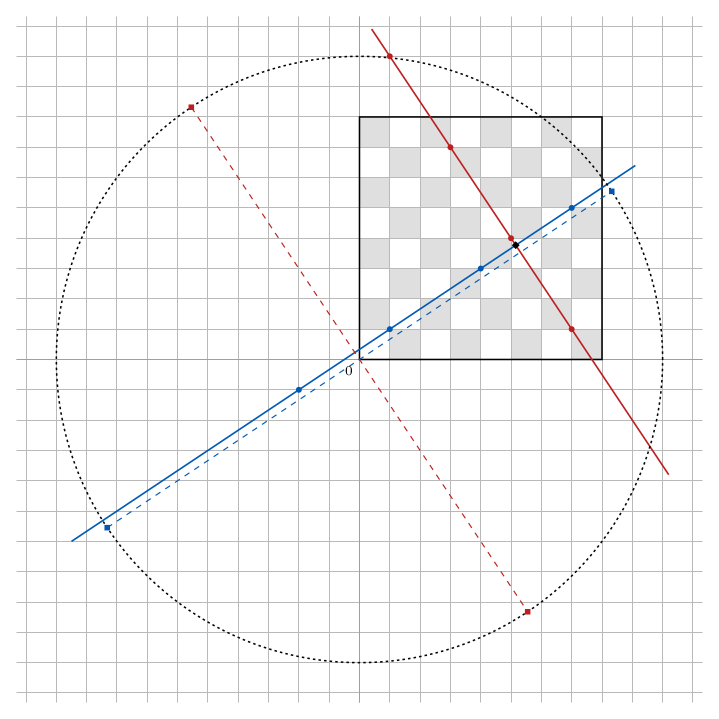
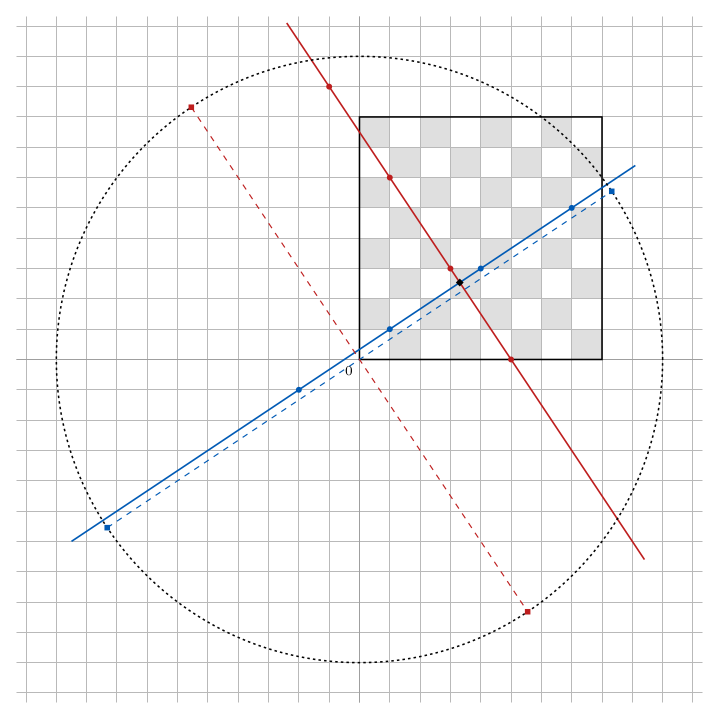
figure: move line B so the crossing clears the lattice (v5)
The crossing sat 0.277 lattice units from (5,4) -- itself a marked lattice
point on line B -- so the black diamond and that red dot overlapped at any
reasonable rendering size. The figure read as though the two lines cross AT a
lattice point, which is precisely what the covering condition forbids.

Line B moved from (3,7) to (3,3), same direction (2,-3). Crossing is now at
(43/13, 33/13), 0.555 from the nearest lattice point -- double the old gap.

0.601 is the hard ceiling for any point on a line of direction (3,2)/(2,-3),
since a lattice line keeps returning close to the lattice, so this is ~92% of
what these directions permit; exceeding it would need a different direction
(e.g. (3,1) or (1,1), ceiling 0.707) and a larger change to the picture.

Marked points on line B are now (-1,9),(1,6),(3,3),(5,0); checked that none
lies on the radius-10 circle, the coincidence v4 was written to avoid.

README alt text updated to the new coordinates. Figure is not referenced by
lattice_line_covers_preprint.tex, so this does not diverge from the published
LiTH-MAT-R 2026:02 or the frozen Zenodo snapshot.

diff --git a/article/figures/chessboard-figure.tex b/article/figures/chessboard-figure.tex
@@ -1,4 +1,15 @@
 % Changelog (reverse chronological):
+% 2026-08-18 13:04 - Claude: v5. The crossing sat only 0.277 lattice units from (5,4) --
+%   which is itself a *marked* lattice point on line B -- so the black diamond
+%   and that red dot overlapped at any sane rendering size, and the figure read
+%   as though the two lines cross AT a lattice point: exactly what the covering
+%   condition forbids. Moved line B from (3,7) to (3,3) (same direction (2,-3)),
+%   putting the crossing at (43/13,33/13), 0.555 from the nearest lattice point.
+%   Note 0.601 is the hard ceiling for ANY point on a line of direction (3,2) or
+%   (2,-3) -- a lattice line keeps returning close to the lattice -- so this is
+%   ~92% of what these directions allow; beating it needs a different direction,
+%   e.g. (3,1) or (1,1), whose ceiling is 0.707. Marked points on B are now
+%   (-1,9),(1,6),(3,3),(5,0); none lies on the radius-10 circle (the v4 trap).
 % 2026-08-03 08:15 - Claude: v4. Line B's marked lattice point (0,10) turned out
 %   to sit exactly on the radius-10 circle (one of the twelve lattice points on
 %   x^2+y^2=100: the four axis points and the eight from 6^2+8^2=10^2) -- a
@@ -53,7 +64,7 @@
   % (offset (2,7)->(3,7) vs. earlier versions: (2,7) put the lattice point (0,10)
   % exactly on the radius-10 circle, an avoidable coincidence -- see changelog.)
   \draw[lineBcolor, line width=0.85pt]
-    ({3-2*1.3},{7+3*1.3}) -- ({3+2*3.6},{7-3*3.6});
+    ({3-2*2.7},{3+3*2.7}) -- ({3+2*3.2},{3-3*3.2});
 
   % --- Auxiliary: the SAME two directions, as lines through the origin ---
   % (dashed, same colors) -- these, not the offset lines above, are what
@@ -79,10 +90,10 @@
 
   % --- Lattice points each (offset) line passes through: filled circles ---
   \foreach \p in {(-2,-1),(1,1),(4,3),(7,5)} \fill[lineAcolor] \p circle (2.8pt);
-  \foreach \p in {(1,10),(3,7),(5,4),(7,1)} \fill[lineBcolor] \p circle (2.8pt);
+  \foreach \p in {(-1,9),(1,6),(3,3),(5,0)} \fill[lineBcolor] \p circle (2.8pt);
 
   % --- The (non-lattice) crossing point of the two ACTUAL lines: black diamond ---
-  \fill[black, rotate around={45:(67/13,49/13)}] (67/13,49/13) ++(-2.6pt,-2.6pt) rectangle ++(5.2pt,5.2pt);
+  \fill[black, rotate around={45:(43/13,33/13)}] (43/13,33/13) ++(-2.6pt,-2.6pt) rectangle ++(5.2pt,5.2pt);
 
   % --- Origin label ---
   \node[below left, font=\scriptsize] at (0,0) {$0$};

diff --git a/README.md b/README.md
@@ -75,8 +75,8 @@ mathematicians, then developed into the theorem above with the help of an AI cod
 (Claude, Anthropic) — see the article's Introduction and Acknowledgements for the full story.
 
 ![Two lattice lines over an 8×8 chessboard set in the integer grid. The blue line runs through
-(1,1) in direction (3,2), the red through (3,7) in direction (2,−3); filled dots mark the lattice
-points each passes through. They do cross — at the black diamond — but at (67/13, 49/13), which is
+(1,1) in direction (3,2), the red through (3,3) in direction (2,−3); filled dots mark the lattice
+points each passes through. They do cross — at the black diamond — but at (43/13, 33/13), which is
 not a lattice point, exactly as the covering condition requires. The dashed lines through the
 origin carry the same two directions, and the filled squares where they meet the dotted circle are
 those directions as antipodal pairs of points of the direction space
